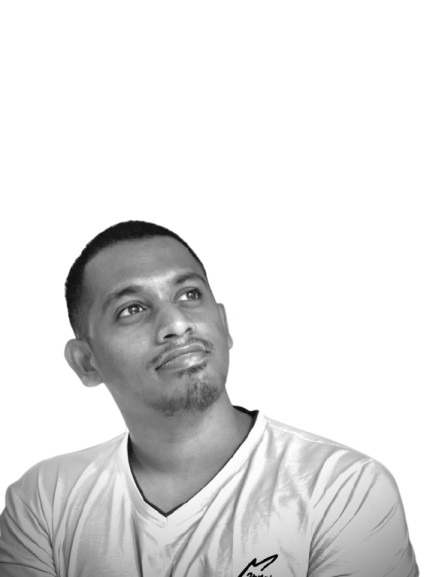
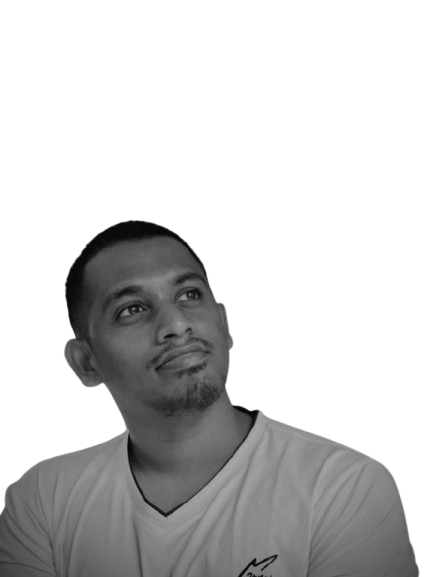
final images added

diff --git a/ravindu-abeysinghe/src/About.jsx b/ravindu-abeysinghe/src/About.jsx
@@ -47,10 +47,10 @@ const About = () => {
                         ))
                     }
                     <img 
-                    src="/images/logo.svg"
-                    alt="Logo" 
-                    width={30}
-                    height={30}
+                    src="/images/ads.png"
+                    alt="" 
+                    width={27}
+                    height={27}
                     className='ml-auto md:w-[40px] md:h-[40px]' />
 
       
@@ -81,24 +81,24 @@ const About = () => {
           <div>
             <div className="flex items-center gap-3 mb-4">
               <span className="text-2xl text-blue-400 material-symbols-rounded">work</span>
-              <h2 className="text-2xl font-bold text-white">Experience</h2>
+              <h2 className="text-xl font-bold text-white">Experience</h2>
             </div>
             
             <div className="ml-9 space-y-6">
               {/* Work Experience */}
               <div className="border-l-2 border-blue-400/30 pl-6 relative">
                 <div className="absolute w-3 h-3 bg-blue-400 rounded-full -left-[6.5px] top-2"></div>
-                <h3 className="text-xl font-semibold text-white">Software Engineering Intern</h3>
+                <h3 className="text-[17px] font-semibold text-white">Software Engineering Intern</h3>
                 <div className="flex items-center text-zinc-300 text-sm ">
-                  <span className="material-symbols-rounded text-base mr-1">business</span>
+                  <span className="material-symbols-rounded text-[14px] mr-1">business</span>
                   WealthOS
                 </div>
-                <div className="flex items-center text-zinc-400 text-sm mb-2">
-                  <span className="material-symbols-rounded text-sm mr-1">calendar_month</span>
+                <div className="flex items-center text-zinc-400 text-sm mb-1">
+                  <span className="material-symbols-rounded text-[14px] mr-1">calendar_month</span>
                   2024
                 </div>
-                <p className="text-zinc-300">
-                  Contributed to real-world software development projects, collaborated with cross-functional teams, and enhanced my skills in backend systems, APIs, and cloud technologies.
+                <p className="text-zinc-300 text-[14px]">
+                Actively contributed to real-world software development projects, collaborating with cross-functional teams to deliver scalable backend systems and robust APIs. Gained hands-on experience with cloud technologies and participated in development focused on generative AI, deepening my understanding of cutting-edge innovations in the field.
                 </p>
               </div>
             </div>
@@ -109,37 +109,37 @@ const About = () => {
           <div className="mb-8">
             <div className="flex items-center gap-3 mb-4">
               <span className="text-2xl text-blue-400 material-symbols-rounded">school</span>
-              <h2 className="text-2xl font-bold text-white">Education</h2>
+              <h2 className="text-xl font-bold text-white">Education</h2>
             </div>
             
             <div className="ml-9 space-y-6">
               {/* University Education */}
               <div className="border-l-2 border-blue-400/30 pl-6 relative">
                 <div className="absolute w-3 h-3 bg-blue-400 rounded-full -left-[6.5px] top-2"></div>
-                <h3 className="text-xl font-semibold text-white">BSc (Hons) in Computer Engineering</h3>
-                <div className="flex items-center text-zinc-300 text-sm mb-1">
-                  <span className="material-symbols-rounded text-base mr-1">location_on</span>
+                <h3 className="text-[17px] font-semibold text-white">BSc (Hons) in Computer Engineering</h3>
+                <div className="flex items-center text-zinc-300 text-sm ">
+                  <span className="material-symbols-rounded text-[14px] mr-1">location_on</span>
                   University of Peradeniya , Faculty of Engineering 
                 </div>
-                <div className="flex items-center text-zinc-400 text-sm mb-2">
-                  <span className="material-symbols-rounded text-base mr-1">calendar_month</span>
+                <div className="flex items-center text-zinc-400 text-sm mb-1">
+                  <span className="material-symbols-rounded text-[14px] mr-1">calendar_month</span>
                   2021 – Present
                 </div>
-                <p className="text-zinc-300">
-                  Currently pursuing my undergraduate degree with a strong focus on software development, computer systems, and emerging technologies.
+                <p className="text-zinc-300 text-[14px]">
+                  Currently pursuing my undergraduate degree with a strong focus on software development, cloud computing & emerging technologies.
                 </p>
               </div>
               
               {/* High School Education */}
               <div className="border-l-2 border-blue-400/30 pl-6 relative">
                 <div className="absolute w-3 h-3 bg-blue-400 rounded-full -left-[6.5px] top-2"></div>
-                <h3 className="text-xl font-semibold text-white">St. Anthony's College</h3>
-                <div className="flex items-center text-zinc-400 text-sm mb-2">
-                  <span className="material-symbols-rounded text-base mr-1">calendar_month</span>
+                <h3 className="text-[17px] font-semibold text-white">St. Anthony's College</h3>
+                <div className="flex items-center text-zinc-400 text-sm mb-1">
+                  <span className="material-symbols-rounded text-[14px] mr-1">calendar_month</span>
                   2013 – 2019
                 </div>
-                <p className="text-zinc-300">
-                  Completed secondary education with a focus on science and mathematics. Built the foundation for my interest in technology and problem solving.
+                <p className="text-zinc-300 text-[14px]">
+                  Completed GCE A/l's on Physical science stream (AAC) . Built the foundation for my interest in technology and problem solving.
                 </p>
               </div>
             </div>

diff --git a/ravindu-abeysinghe/src/components/Hero.jsx b/ravindu-abeysinghe/src/components/Hero.jsx
@@ -16,7 +16,7 @@ className='pt-28 lg:pt-36'>
     <div>
         <div className='flex items-center gap-3'>
             <figure className='img-box w-9 h-9 rounded-lg'>
-                <img src="/images/avatar-1.jpg"
+                <img src="/images/new.jpg"
                 width={40}
                 height={40}
                 alt="Henry clark portrait"
@@ -38,7 +38,7 @@ className='pt-28 lg:pt-36'>
          </h2>
 
          <p className='text-zinc-300 mb-5 md:mb-8 md:text-l bg-zinc-800 
-         w-fit px-4 py-2 rounded-md flex items-center'>
+         w-fit px-4 py-2 rounded-lg flex items-center hover:bg-zinc-700'>
            Ravindu Abeysinghe
            </p>
 

diff --git a/ravindu-abeysinghe/index.html b/ravindu-abeysinghe/index.html
@@ -6,7 +6,7 @@
     <meta name="viewport" content="width=device-width, initial-scale=1.0" />
     <title>Ravindu Abeysinghe - Portfolio</title>
 
-    <link rel="shortcut icon" href="/images/favicon.svg" type="image/svg+xml" />
+    <link rel="shortcut icon" href="/images/logo.png" type="image/svg+xml" />
 
     <link rel="preconnect" href="https://fonts.googleapis.com" />
     <link rel="preconnect" href="https://fonts.gstatic.com" crossorigin />

diff --git a/ravindu-abeysinghe/src/components/Header.jsx b/ravindu-abeysinghe/src/components/Header.jsx
@@ -22,9 +22,9 @@ const Header = () => {
           href="/"
           className='logo'
           >
-            <img src="/images/logo.svg"
-            width={40}
-            height={40} 
+            <img src="/images/logo.png"
+            width={35}
+            height={35} 
             alt="Ravindu Abeysinghe" />          
           </a>
         </h1>

diff --git a/ravindu-abeysinghe/src/components/Footer.jsx b/ravindu-abeysinghe/src/components/Footer.jsx
@@ -117,7 +117,7 @@ const Footer = () => {
         className=''
         >
          <img 
-         src="/images/logo.svg" 
+         src="/images/logo.png" 
          width={40}
          height={40}
          alt="Logo" />
